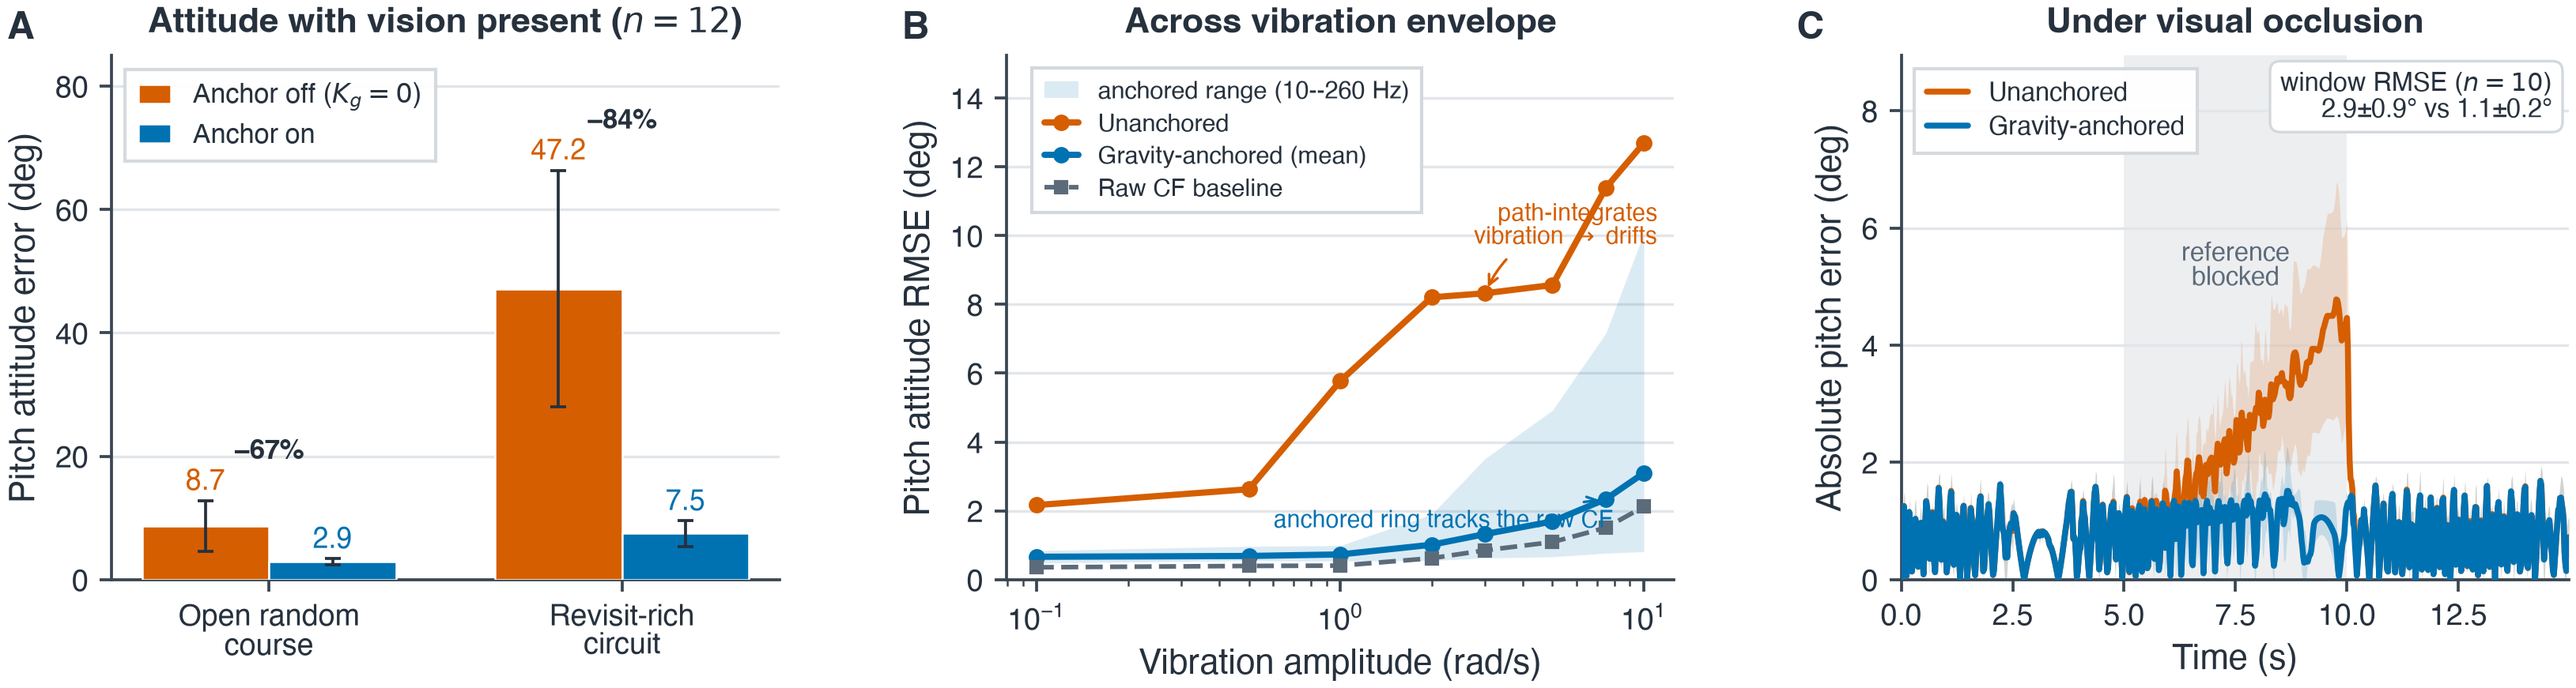
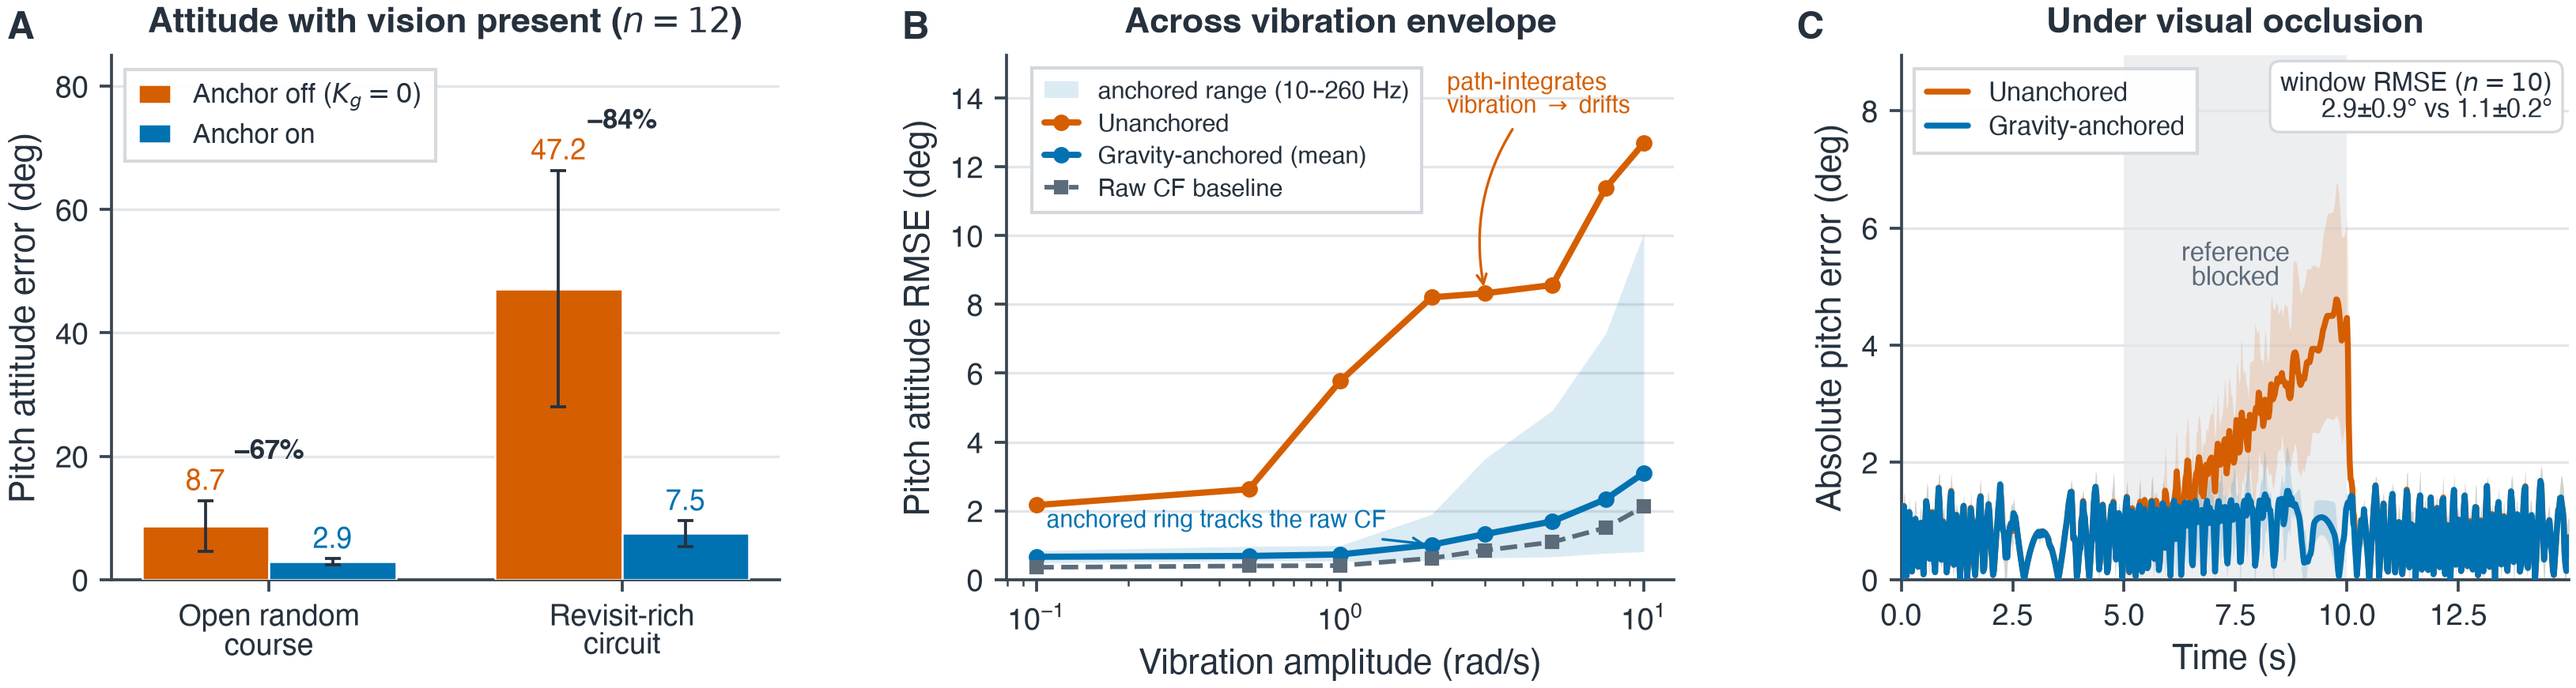
Fig 2B: reposition panel annotations clear of the K_g=5 curves

Changed region(s): [[0.558, 0.279, 0.651, 0.403], [0.403, 0.744, 0.62, 0.775], [0.558, 0.093, 0.651, 0.186]]

diff --git a/figures_and_scripts/figure_attitude_anchor/generate_attitude_anchor.py b/figures_and_scripts/figure_attitude_anchor/generate_attitude_anchor.py
@@ -114,12 +114,12 @@ axB.set_ylim(0, max(8.0, float(un.max()) * 1.2))
 # orange curve so it no longer buries the drift-onset knee. (\rightarrow via mathtext: the fallback
 # font has no U+2192 glyph, unlike the degree/approx signs.)
 axB.annotate('path-integrates\nvibration $\\rightarrow$ drifts',
-             xy=(amp[-4], un[-4]), xytext=(0.975, 0.72), textcoords='axes fraction',
-             fontsize=7.2, color=figstyle.C_IMU, ha='right', va='top',
+             xy=(amp[-4], un[-4]), xytext=(0.66, 0.97), textcoords='axes fraction',
+             fontsize=7.2, color=figstyle.C_IMU, ha='left', va='top',
              arrowprops=dict(arrowstyle='->', color=figstyle.C_IMU, lw=0.8,
                              connectionstyle='arc3,rad=0.25'))
 axB.annotate('anchored ring tracks the raw CF',
-             xy=(amp[-2], an[-2]), xytext=(0.40, 0.10), textcoords='axes fraction',
+             xy=(amp[3], an[3]), xytext=(0.06, 0.10), textcoords='axes fraction',
              fontsize=7.2, color=figstyle.C_ANCH, ha='left',
              arrowprops=dict(arrowstyle='->', color=figstyle.C_ANCH, lw=0.8))
 axB.legend(loc='upper left', bbox_to_anchor=(0.02, 1.0), fontsize=7.4, handlelength=1.4,
